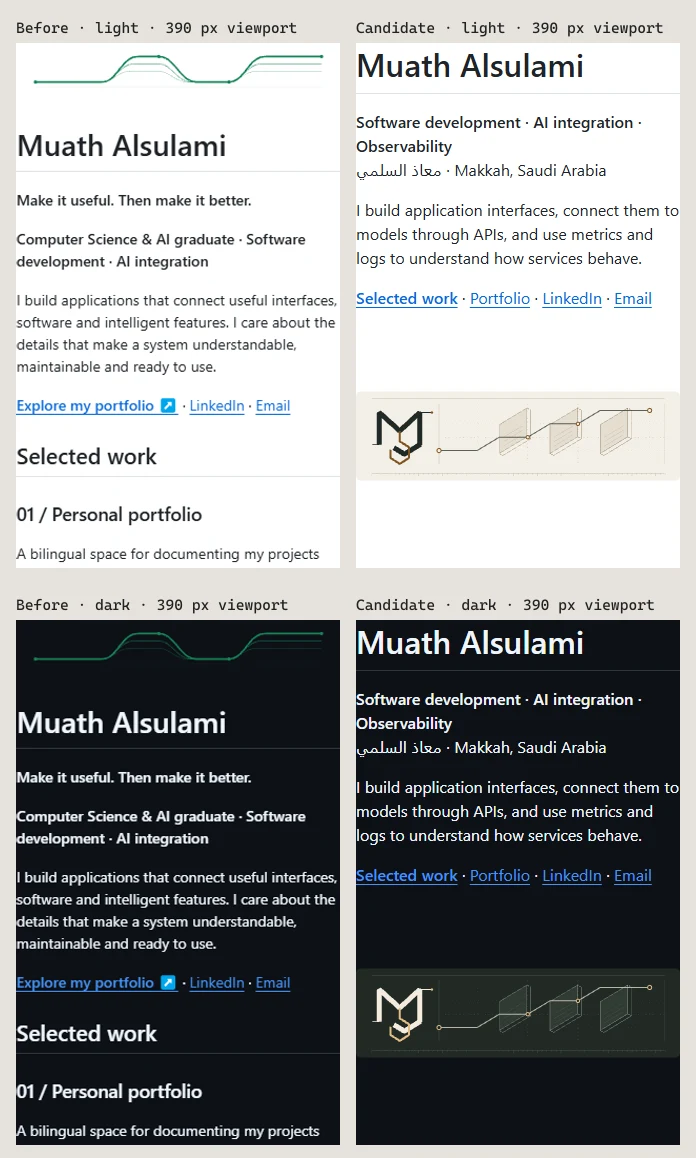
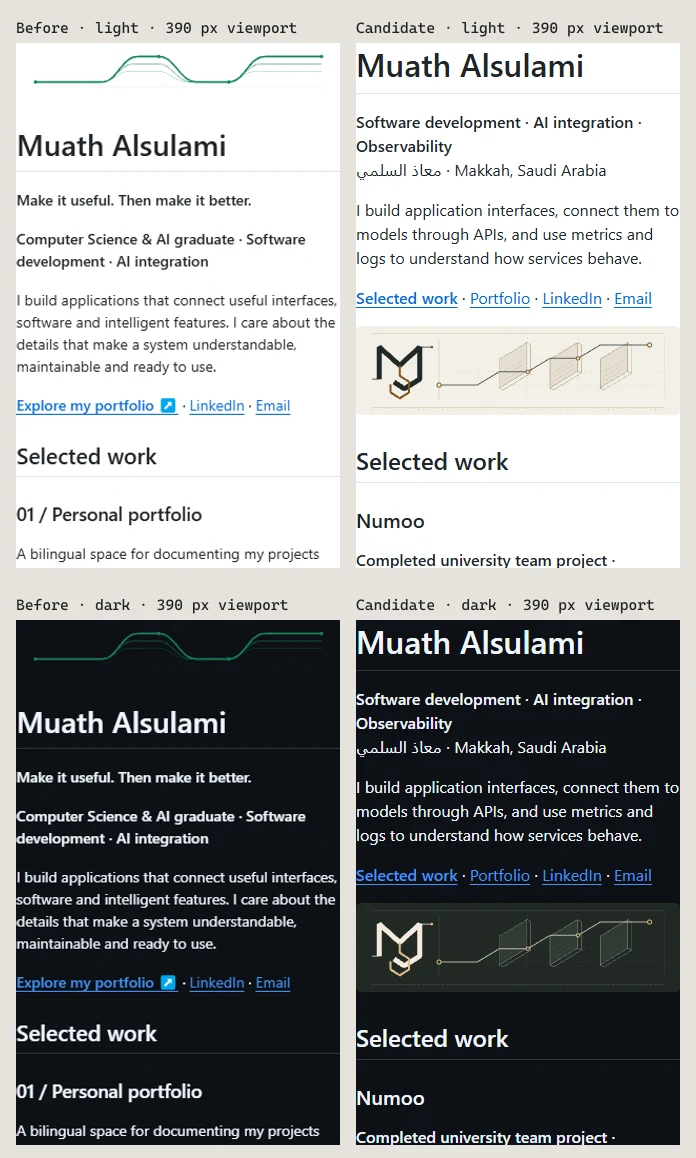
Refresh review evidence after mobile aspect-ratio refinement

Changed region(s): [[0.5129, 0.7772, 0.9957, 0.9948], [0.5129, 0.2798, 0.9655, 0.4974]]

diff --git a/evidence/README.md b/evidence/README.md
@@ -34,3 +34,5 @@ The matrix used 320, 375, 390, 430, 768, 1024, 1440 and 1920 px viewports in bro
 The dedicated portfolio, both case-study dialogs, public source, historical PR and Pathy credential resolved. LinkedIn blocked the anonymous automated request. The existing email link was checked for syntax without sending a message. The current degree wording was carried forward because the [Umm Al-Qura program catalog](https://uqu.edu.sa/en/App/Degrees?dept=1&faculty=14) cannot identify the credential on the personal record. Main and live account settings are outside the candidate branch.
 
 The first engineering check found the motion could still run in an embedded SVG when Edge emulated reduced motion on the host page. The candidate now makes the selection at the page level using a GitHub-rendered picture source. A repeated four-frame pixel comparison on GitHub measured 0, 230, 233 and 0 changed pixels with motion enabled, and 0 in every frame with reduced motion. The rendered source URL confirmed that the fallback was the separate static SVG.
+
+The final mobile review found that explicit HTML height caused GitHub to reserve extra vertical space around the image. Removing those HTML dimensions let the renderer use the SVG's intrinsic aspect ratio. The final hero measured 254 × 70 px at a 320 px viewport, 324 × 89 px at 390 px, and 800 × 220 px on desktop. Clicking Selected work scrolled the section into view at all three widths.
